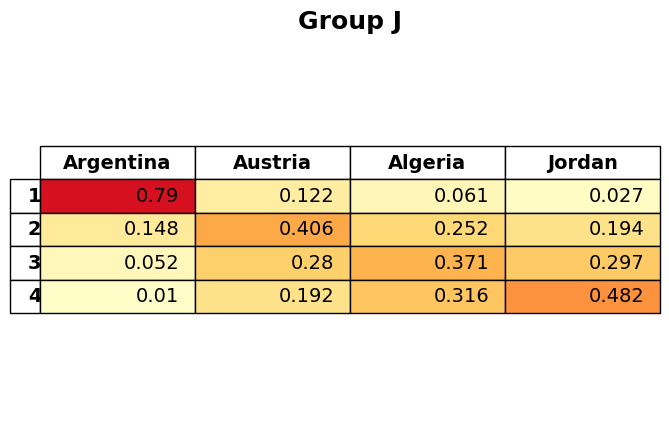
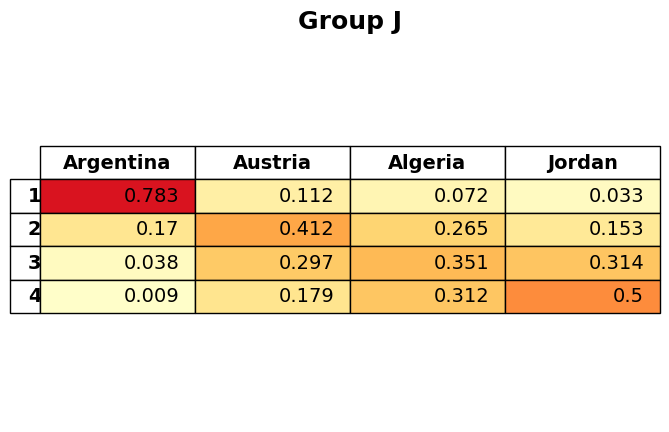
Fixed division error

diff --git a/WC2026.py b/WC2026.py
@@ -51,7 +51,7 @@ class WC_2026:
             total_group_table = self.total_table[self.total_table['Group'] == group] 
             average_group_table = deepcopy(total_group_table.loc[:, ['Team', 'Points']])
 
-            average_group_table['Points'] / iterations
+            average_group_table['Points'] =  average_group_table['Points'] / iterations
 
             print(average_group_table)
 
